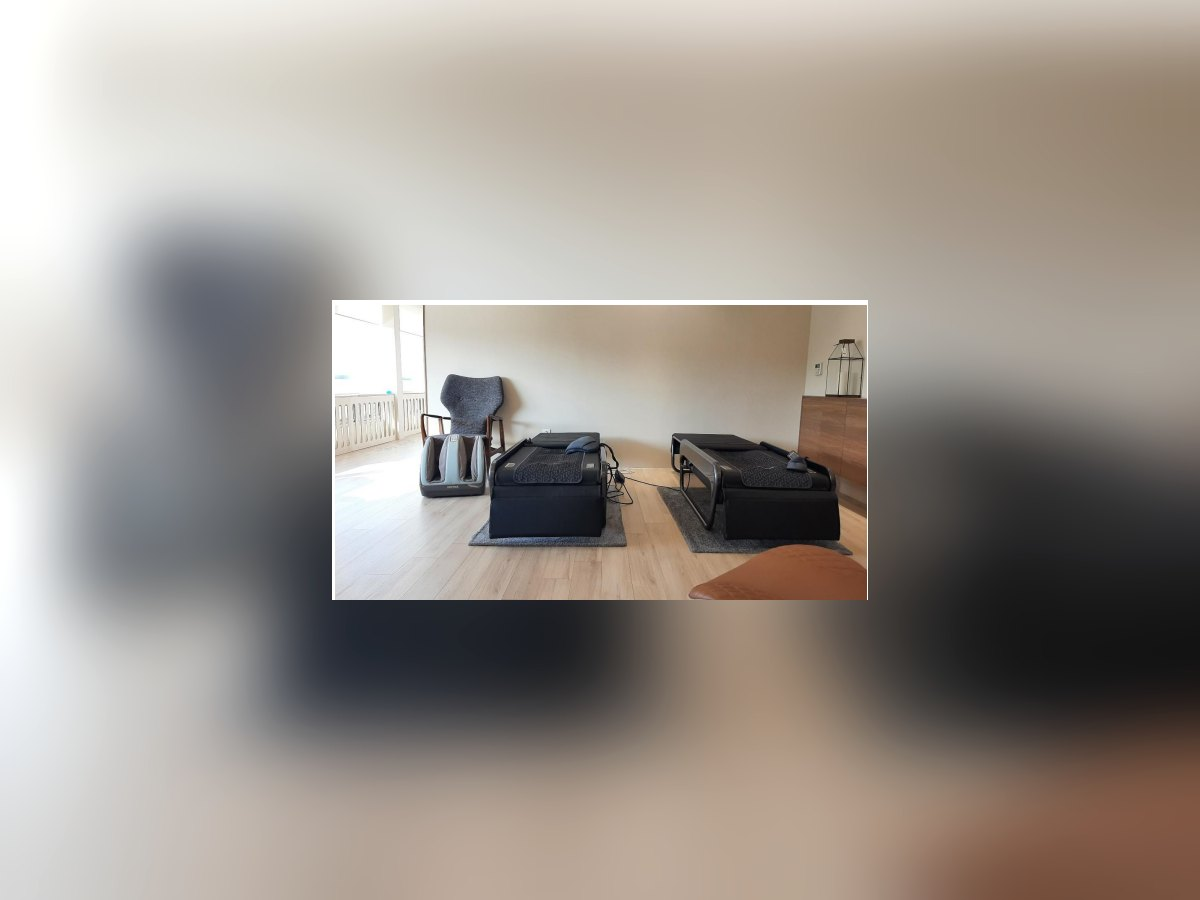
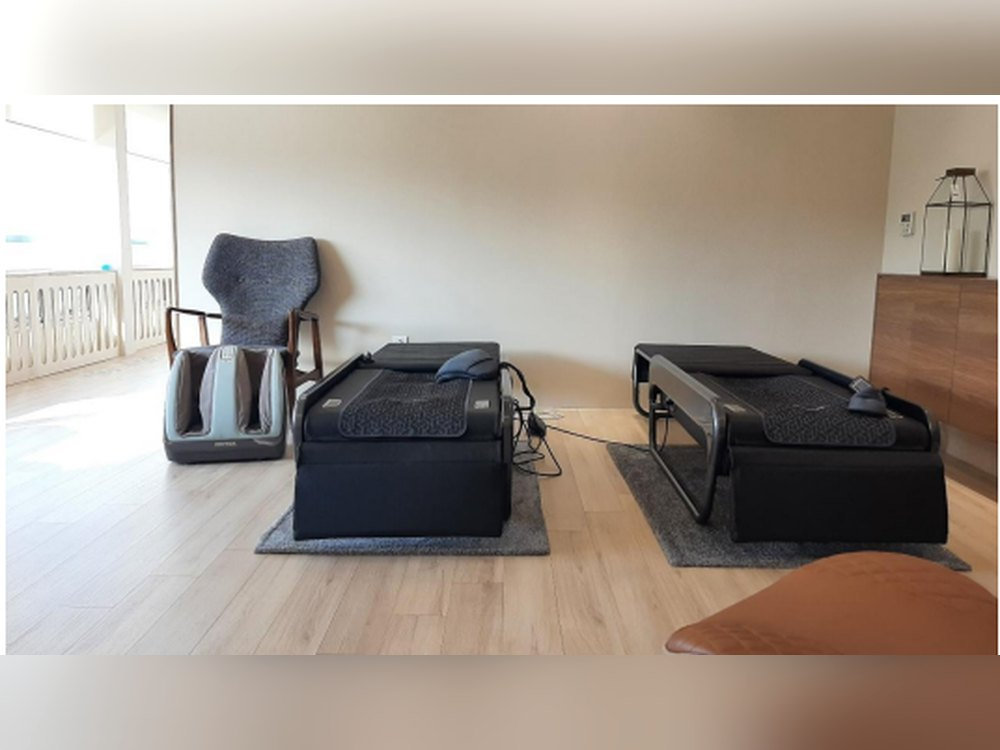
도입사례 이미지 전면 재정리 — 합성 스트립 분리, 업스케일 버그 수정
앞 커밋의 정규화에 버그가 있었음. PIL thumbnail()은 축소만 하고 확대는 하지 않아,
원본이 캔버스보다 작은 사진 25장이 흐린 배경 안에 작게 떠 있었음.

- 정규화 시 축소·확대 모두 적용하도록 수정 (min 스케일 직접 계산)
- 캔버스를 1200x900 → 1000x750 으로 조정해 과한 업스케일 방지
- 사진 3장이 붙어 있던 합성 스트립 4장을 개별 사진 12장으로 자동 분리
  (거터·캡션 띠를 밝기 프로파일로 검출)
- 스트립에 박혀 있던 도입처 이름을 .case-cap 텍스트 캡션으로 복원
  ("HD현대 GRC 센터", "현대자동차그룹 양재 본사") — 모바일에서도 선명
- 전폭 배치(.case-thumb.wide) 제거 → 33장 전부 동일한 4:3 카드로 통일

결과: 33장 전부 비율 1.33 균일, 잘림 0%, 깨진 이미지 0

diff --git a/cases.html b/cases.html
@@ -94,11 +94,19 @@
           <h3>기업</h3>
         </div>
         <div class="case-gallery">
-          <div class="case-thumb wide"><img src="images/cases/case-corporate-1.jpg" alt="기업 도입사례 1" width="1494" height="368" loading="lazy" decoding="async" onerror="this.style.display='none'; this.parentElement.classList.add('empty');"><div class="ph-empty">사진<br>준비중</div></div>
-          <div class="case-thumb wide"><img src="images/cases/case-corporate-2.jpg" alt="기업 도입사례 2" width="1491" height="348" loading="lazy" decoding="async" onerror="this.style.display='none'; this.parentElement.classList.add('empty');"><div class="ph-empty">사진<br>준비중</div></div>
-          <div class="case-thumb wide"><img src="images/cases/case-corporate-3.jpg" alt="기업 도입사례 3" width="1494" height="311" loading="lazy" decoding="async" onerror="this.style.display='none'; this.parentElement.classList.add('empty');"><div class="ph-empty">사진<br>준비중</div></div>
-          <div class="case-thumb wide"><img src="images/cases/case-corporate-4.jpg" alt="기업 도입사례 4" width="1489" height="287" loading="lazy" decoding="async" onerror="this.style.display='none'; this.parentElement.classList.add('empty');"><div class="ph-empty">사진<br>준비중</div></div>
-          <div class="case-thumb"><img src="images/cases/case-corporate-5.jpg" alt="기업 도입사례 5" width="1200" height="900" loading="lazy" decoding="async" onerror="this.style.display='none'; this.parentElement.classList.add('empty');"><div class="ph-empty">사진<br>준비중</div></div>
+          <div class="case-thumb"><img src="images/cases/case-corporate-1-1.jpg" alt="HD현대 GRC 센터 세라젬 도입 현장 1" width="1000" height="750" loading="lazy" decoding="async" onerror="this.style.display='none'; this.parentElement.classList.add('empty');"><div class="case-cap">HD현대 GRC 센터</div><div class="ph-empty">사진<br>준비중</div></div>
+          <div class="case-thumb"><img src="images/cases/case-corporate-1-2.jpg" alt="HD현대 GRC 센터 세라젬 도입 현장 2" width="1000" height="750" loading="lazy" decoding="async" onerror="this.style.display='none'; this.parentElement.classList.add('empty');"><div class="case-cap">HD현대 GRC 센터</div><div class="ph-empty">사진<br>준비중</div></div>
+          <div class="case-thumb"><img src="images/cases/case-corporate-1-3.jpg" alt="HD현대 GRC 센터 세라젬 도입 현장 3" width="1000" height="750" loading="lazy" decoding="async" onerror="this.style.display='none'; this.parentElement.classList.add('empty');"><div class="case-cap">HD현대 GRC 센터</div><div class="ph-empty">사진<br>준비중</div></div>
+          <div class="case-thumb"><img src="images/cases/case-corporate-2-1.jpg" alt="현대자동차그룹 양재 본사 세라젬 도입 현장 1" width="1000" height="750" loading="lazy" decoding="async" onerror="this.style.display='none'; this.parentElement.classList.add('empty');"><div class="case-cap">현대자동차그룹 양재 본사</div><div class="ph-empty">사진<br>준비중</div></div>
+          <div class="case-thumb"><img src="images/cases/case-corporate-2-2.jpg" alt="현대자동차그룹 양재 본사 세라젬 도입 현장 2" width="1000" height="750" loading="lazy" decoding="async" onerror="this.style.display='none'; this.parentElement.classList.add('empty');"><div class="case-cap">현대자동차그룹 양재 본사</div><div class="ph-empty">사진<br>준비중</div></div>
+          <div class="case-thumb"><img src="images/cases/case-corporate-2-3.jpg" alt="현대자동차그룹 양재 본사 세라젬 도입 현장 3" width="1000" height="750" loading="lazy" decoding="async" onerror="this.style.display='none'; this.parentElement.classList.add('empty');"><div class="case-cap">현대자동차그룹 양재 본사</div><div class="ph-empty">사진<br>준비중</div></div>
+          <div class="case-thumb"><img src="images/cases/case-corporate-3-1.jpg" alt="기업 휴게공간 세라젬 도입 현장 1" width="1000" height="750" loading="lazy" decoding="async" onerror="this.style.display='none'; this.parentElement.classList.add('empty');"><div class="ph-empty">사진<br>준비중</div></div>
+          <div class="case-thumb"><img src="images/cases/case-corporate-3-2.jpg" alt="기업 휴게공간 세라젬 도입 현장 2" width="1000" height="750" loading="lazy" decoding="async" onerror="this.style.display='none'; this.parentElement.classList.add('empty');"><div class="ph-empty">사진<br>준비중</div></div>
+          <div class="case-thumb"><img src="images/cases/case-corporate-3-3.jpg" alt="기업 휴게공간 세라젬 도입 현장 3" width="1000" height="750" loading="lazy" decoding="async" onerror="this.style.display='none'; this.parentElement.classList.add('empty');"><div class="ph-empty">사진<br>준비중</div></div>
+          <div class="case-thumb"><img src="images/cases/case-corporate-4-1.jpg" alt="기업 휴게공간 세라젬 도입 현장 1" width="1000" height="750" loading="lazy" decoding="async" onerror="this.style.display='none'; this.parentElement.classList.add('empty');"><div class="ph-empty">사진<br>준비중</div></div>
+          <div class="case-thumb"><img src="images/cases/case-corporate-4-2.jpg" alt="기업 휴게공간 세라젬 도입 현장 2" width="1000" height="750" loading="lazy" decoding="async" onerror="this.style.display='none'; this.parentElement.classList.add('empty');"><div class="ph-empty">사진<br>준비중</div></div>
+          <div class="case-thumb"><img src="images/cases/case-corporate-4-3.jpg" alt="기업 휴게공간 세라젬 도입 현장 3" width="1000" height="750" loading="lazy" decoding="async" onerror="this.style.display='none'; this.parentElement.classList.add('empty');"><div class="ph-empty">사진<br>준비중</div></div>
+          <div class="case-thumb"><img src="images/cases/case-corporate-5.jpg" alt="기업 도입사례 5" width="1000" height="750" loading="lazy" decoding="async" onerror="this.style.display='none'; this.parentElement.classList.add('empty');"><div class="ph-empty">사진<br>준비중</div></div>
         </div>
       </div>
 
@@ -107,11 +115,11 @@
           <h3>시니어</h3>
         </div>
         <div class="case-gallery">
-          <div class="case-thumb"><img src="images/cases/case-senior-1.jpg" alt="시니어 도입사례 1" width="1200" height="900" loading="lazy" decoding="async" onerror="this.style.display='none'; this.parentElement.classList.add('empty');"><div class="ph-empty">사진<br>준비중</div></div>
-          <div class="case-thumb"><img src="images/cases/case-senior-2.jpg" alt="시니어 도입사례 2" width="1200" height="900" loading="lazy" decoding="async" onerror="this.style.display='none'; this.parentElement.classList.add('empty');"><div class="ph-empty">사진<br>준비중</div></div>
-          <div class="case-thumb"><img src="images/cases/case-senior-3.jpg" alt="시니어 도입사례 3" width="1200" height="900" loading="lazy" decoding="async" onerror="this.style.display='none'; this.parentElement.classList.add('empty');"><div class="ph-empty">사진<br>준비중</div></div>
-          <div class="case-thumb"><img src="images/cases/case-senior-4.jpg" alt="시니어 도입사례 4" width="1200" height="900" loading="lazy" decoding="async" onerror="this.style.display='none'; this.parentElement.classList.add('empty');"><div class="ph-empty">사진<br>준비중</div></div>
-          <div class="case-thumb"><img src="images/cases/case-senior-5.jpg" alt="시니어 도입사례 5" width="1200" height="900" loading="lazy" decoding="async" onerror="this.style.display='none'; this.parentElement.classList.add('empty');"><div class="ph-empty">사진<br>준비중</div></div>
+          <div class="case-thumb"><img src="images/cases/case-senior-1.jpg" alt="시니어 도입사례 1" width="1000" height="750" loading="lazy" decoding="async" onerror="this.style.display='none'; this.parentElement.classList.add('empty');"><div class="ph-empty">사진<br>준비중</div></div>
+          <div class="case-thumb"><img src="images/cases/case-senior-2.jpg" alt="시니어 도입사례 2" width="1000" height="750" loading="lazy" decoding="async" onerror="this.style.display='none'; this.parentElement.classList.add('empty');"><div class="ph-empty">사진<br>준비중</div></div>
+          <div class="case-thumb"><img src="images/cases/case-senior-3.jpg" alt="시니어 도입사례 3" width="1000" height="750" loading="lazy" decoding="async" onerror="this.style.display='none'; this.parentElement.classList.add('empty');"><div class="ph-empty">사진<br>준비중</div></div>
+          <div class="case-thumb"><img src="images/cases/case-senior-4.jpg" alt="시니어 도입사례 4" width="1000" height="750" loading="lazy" decoding="async" onerror="this.style.display='none'; this.parentElement.classList.add('empty');"><div class="ph-empty">사진<br>준비중</div></div>
+          <div class="case-thumb"><img src="images/cases/case-senior-5.jpg" alt="시니어 도입사례 5" width="1000" height="750" loading="lazy" decoding="async" onerror="this.style.display='none'; this.parentElement.classList.add('empty');"><div class="ph-empty">사진<br>준비중</div></div>
         </div>
       </div>
 
@@ -120,11 +128,11 @@
           <h3>호텔</h3>
         </div>
         <div class="case-gallery">
-          <div class="case-thumb"><img src="images/cases/case-hotel-1.jpg" alt="호텔 도입사례 1" width="1200" height="900" loading="lazy" decoding="async" onerror="this.style.display='none'; this.parentElement.classList.add('empty');"><div class="ph-empty">사진<br>준비중</div></div>
-          <div class="case-thumb"><img src="images/cases/case-hotel-2.jpg" alt="호텔 도입사례 2" width="1200" height="900" loading="lazy" decoding="async" onerror="this.style.display='none'; this.parentElement.classList.add('empty');"><div class="ph-empty">사진<br>준비중</div></div>
-          <div class="case-thumb"><img src="images/cases/case-hotel-3.jpg" alt="호텔 도입사례 3" width="1200" height="900" loading="lazy" decoding="async" onerror="this.style.display='none'; this.parentElement.classList.add('empty');"><div class="ph-empty">사진<br>준비중</div></div>
-          <div class="case-thumb"><img src="images/cases/case-hotel-4.jpg" alt="호텔 도입사례 4" width="1200" height="900" loading="lazy" decoding="async" onerror="this.style.display='none'; this.parentElement.classList.add('empty');"><div class="ph-empty">사진<br>준비중</div></div>
-          <div class="case-thumb"><img src="images/cases/case-hotel-5.jpg" alt="호텔 도입사례 5" width="1200" height="900" loading="lazy" decoding="async" onerror="this.style.display='none'; this.parentElement.classList.add('empty');"><div class="ph-empty">사진<br>준비중</div></div>
+          <div class="case-thumb"><img src="images/cases/case-hotel-1.jpg" alt="호텔 도입사례 1" width="1000" height="750" loading="lazy" decoding="async" onerror="this.style.display='none'; this.parentElement.classList.add('empty');"><div class="ph-empty">사진<br>준비중</div></div>
+          <div class="case-thumb"><img src="images/cases/case-hotel-2.jpg" alt="호텔 도입사례 2" width="1000" height="750" loading="lazy" decoding="async" onerror="this.style.display='none'; this.parentElement.classList.add('empty');"><div class="ph-empty">사진<br>준비중</div></div>
+          <div class="case-thumb"><img src="images/cases/case-hotel-3.jpg" alt="호텔 도입사례 3" width="1000" height="750" loading="lazy" decoding="async" onerror="this.style.display='none'; this.parentElement.classList.add('empty');"><div class="ph-empty">사진<br>준비중</div></div>
+          <div class="case-thumb"><img src="images/cases/case-hotel-4.jpg" alt="호텔 도입사례 4" width="1000" height="750" loading="lazy" decoding="async" onerror="this.style.display='none'; this.parentElement.classList.add('empty');"><div class="ph-empty">사진<br>준비중</div></div>
+          <div class="case-thumb"><img src="images/cases/case-hotel-5.jpg" alt="호텔 도입사례 5" width="1000" height="750" loading="lazy" decoding="async" onerror="this.style.display='none'; this.parentElement.classList.add('empty');"><div class="ph-empty">사진<br>준비중</div></div>
         </div>
       </div>
 
@@ -133,11 +141,11 @@
           <h3>산후조리원</h3>
         </div>
         <div class="case-gallery">
-          <div class="case-thumb"><img src="images/cases/case-postpartum-1.jpg" alt="산후조리원 도입사례 1" width="1200" height="900" loading="lazy" decoding="async" onerror="this.style.display='none'; this.parentElement.classList.add('empty');"><div class="ph-empty">사진<br>준비중</div></div>
-          <div class="case-thumb"><img src="images/cases/case-postpartum-2.jpg" alt="산후조리원 도입사례 2" width="1200" height="900" loading="lazy" decoding="async" onerror="this.style.display='none'; this.parentElement.classList.add('empty');"><div class="ph-empty">사진<br>준비중</div></div>
-          <div class="case-thumb"><img src="images/cases/case-postpartum-3.jpg" alt="산후조리원 도입사례 3" width="1200" height="900" loading="lazy" decoding="async" onerror="this.style.display='none'; this.parentElement.classList.add('empty');"><div class="ph-empty">사진<br>준비중</div></div>
-          <div class="case-thumb"><img src="images/cases/case-postpartum-4.jpg" alt="산후조리원 도입사례 4" width="1200" height="900" loading="lazy" decoding="async" onerror="this.style.display='none'; this.parentElement.classList.add('empty');"><div class="ph-empty">사진<br>준비중</div></div>
-          <div class="case-thumb"><img src="images/cases/case-postpartum-5.jpg" alt="산후조리원 도입사례 5" width="1200" height="900" loading="lazy" decoding="async" onerror="this.style.display='none'; this.parentElement.classList.add('empty');"><div class="ph-empty">사진<br>준비중</div></div>
+          <div class="case-thumb"><img src="images/cases/case-postpartum-1.jpg" alt="산후조리원 도입사례 1" width="1000" height="750" loading="lazy" decoding="async" onerror="this.style.display='none'; this.parentElement.classList.add('empty');"><div class="ph-empty">사진<br>준비중</div></div>
+          <div class="case-thumb"><img src="images/cases/case-postpartum-2.jpg" alt="산후조리원 도입사례 2" width="1000" height="750" loading="lazy" decoding="async" onerror="this.style.display='none'; this.parentElement.classList.add('empty');"><div class="ph-empty">사진<br>준비중</div></div>
+          <div class="case-thumb"><img src="images/cases/case-postpartum-3.jpg" alt="산후조리원 도입사례 3" width="1000" height="750" loading="lazy" decoding="async" onerror="this.style.display='none'; this.parentElement.classList.add('empty');"><div class="ph-empty">사진<br>준비중</div></div>
+          <div class="case-thumb"><img src="images/cases/case-postpartum-4.jpg" alt="산후조리원 도입사례 4" width="1000" height="750" loading="lazy" decoding="async" onerror="this.style.display='none'; this.parentElement.classList.add('empty');"><div class="ph-empty">사진<br>준비중</div></div>
+          <div class="case-thumb"><img src="images/cases/case-postpartum-5.jpg" alt="산후조리원 도입사례 5" width="1000" height="750" loading="lazy" decoding="async" onerror="this.style.display='none'; this.parentElement.classList.add('empty');"><div class="ph-empty">사진<br>준비중</div></div>
         </div>
       </div>
 
@@ -146,11 +154,11 @@
           <h3>소상공인</h3>
         </div>
         <div class="case-gallery">
-          <div class="case-thumb"><img src="images/cases/case-soho-1.jpg" alt="소상공인 도입사례 1" width="1200" height="900" loading="lazy" decoding="async" onerror="this.style.display='none'; this.parentElement.classList.add('empty');"><div class="ph-empty">사진<br>준비중</div></div>
-          <div class="case-thumb"><img src="images/cases/case-soho-2.jpg" alt="소상공인 도입사례 2" width="1200" height="900" loading="lazy" decoding="async" onerror="this.style.display='none'; this.parentElement.classList.add('empty');"><div class="ph-empty">사진<br>준비중</div></div>
-          <div class="case-thumb"><img src="images/cases/case-soho-3.jpg" alt="소상공인 도입사례 3" width="1200" height="900" loading="lazy" decoding="async" onerror="this.style.display='none'; this.parentElement.classList.add('empty');"><div class="ph-empty">사진<br>준비중</div></div>
-          <div class="case-thumb"><img src="images/cases/case-soho-4.jpg" alt="소상공인 도입사례 4" width="1200" height="900" loading="lazy" decoding="async" onerror="this.style.display='none'; this.parentElement.classList.add('empty');"><div class="ph-empty">사진<br>준비중</div></div>
-          <div class="case-thumb"><img src="images/cases/case-soho-5.jpg" alt="소상공인 도입사례 5" width="1200" height="900" loading="lazy" decoding="async" onerror="this.style.display='none'; this.parentElement.classList.add('empty');"><div class="ph-empty">사진<br>준비중</div></div>
+          <div class="case-thumb"><img src="images/cases/case-soho-1.jpg" alt="소상공인 도입사례 1" width="1000" height="750" loading="lazy" decoding="async" onerror="this.style.display='none'; this.parentElement.classList.add('empty');"><div class="ph-empty">사진<br>준비중</div></div>
+          <div class="case-thumb"><img src="images/cases/case-soho-2.jpg" alt="소상공인 도입사례 2" width="1000" height="750" loading="lazy" decoding="async" onerror="this.style.display='none'; this.parentElement.classList.add('empty');"><div class="ph-empty">사진<br>준비중</div></div>
+          <div class="case-thumb"><img src="images/cases/case-soho-3.jpg" alt="소상공인 도입사례 3" width="1000" height="750" loading="lazy" decoding="async" onerror="this.style.display='none'; this.parentElement.classList.add('empty');"><div class="ph-empty">사진<br>준비중</div></div>
+          <div class="case-thumb"><img src="images/cases/case-soho-4.jpg" alt="소상공인 도입사례 4" width="1000" height="750" loading="lazy" decoding="async" onerror="this.style.display='none'; this.parentElement.classList.add('empty');"><div class="ph-empty">사진<br>준비중</div></div>
+          <div class="case-thumb"><img src="images/cases/case-soho-5.jpg" alt="소상공인 도입사례 5" width="1000" height="750" loading="lazy" decoding="async" onerror="this.style.display='none'; this.parentElement.classList.add('empty');"><div class="ph-empty">사진<br>준비중</div></div>
         </div>
       </div>
 

diff --git a/styles.css b/styles.css
@@ -729,20 +729,21 @@ section .desc {
   display: block;
 }
 
-/* 사진 3장이 합쳐진 스트립 이미지 — 잘리지 않게 전폭으로 */
-.case-thumb.wide {
-  grid-column: 1 / -1;
-  aspect-ratio: auto;
-}
-
-.case-thumb.wide:hover {
-  transform: none;
-  box-shadow: none;
-}
-
-.case-thumb.wide img {
-  height: auto;
-  object-fit: contain;
+/* 도입처 이름 캡션 */
+.case-cap {
+  position: absolute;
+  z-index: 2;
+  left: 0;
+  right: 0;
+  bottom: 0;
+  padding: 22px 12px 9px;
+  font-size: 13.5px;
+  font-weight: 600;
+  color: #ffffff;
+  letter-spacing: -0.01em;
+  background: linear-gradient(180deg, rgba(10, 11, 13, 0) 0%, rgba(10, 11, 13, 0.72) 62%);
+  text-shadow: 0 1px 3px rgba(0, 0, 0, 0.45);
+  pointer-events: none;
 }
 
 .case-thumb .ph-empty {
